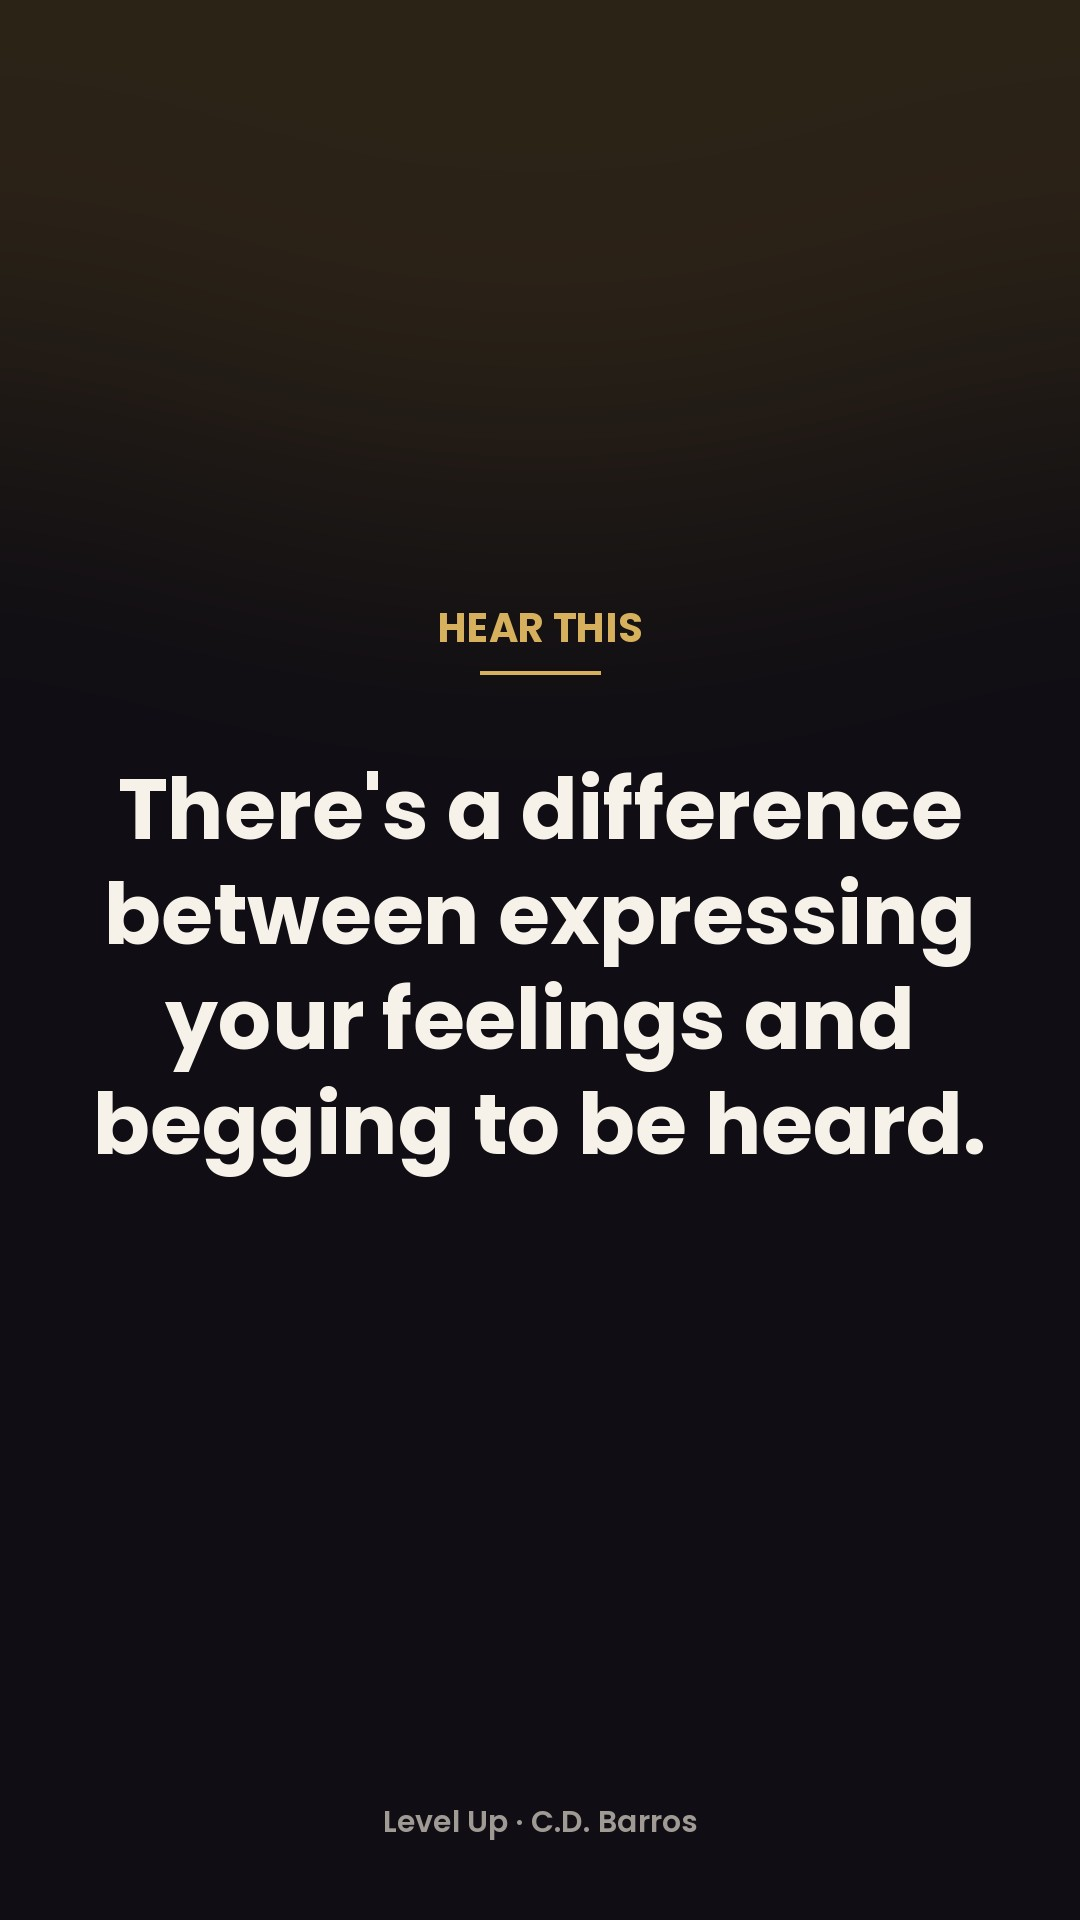
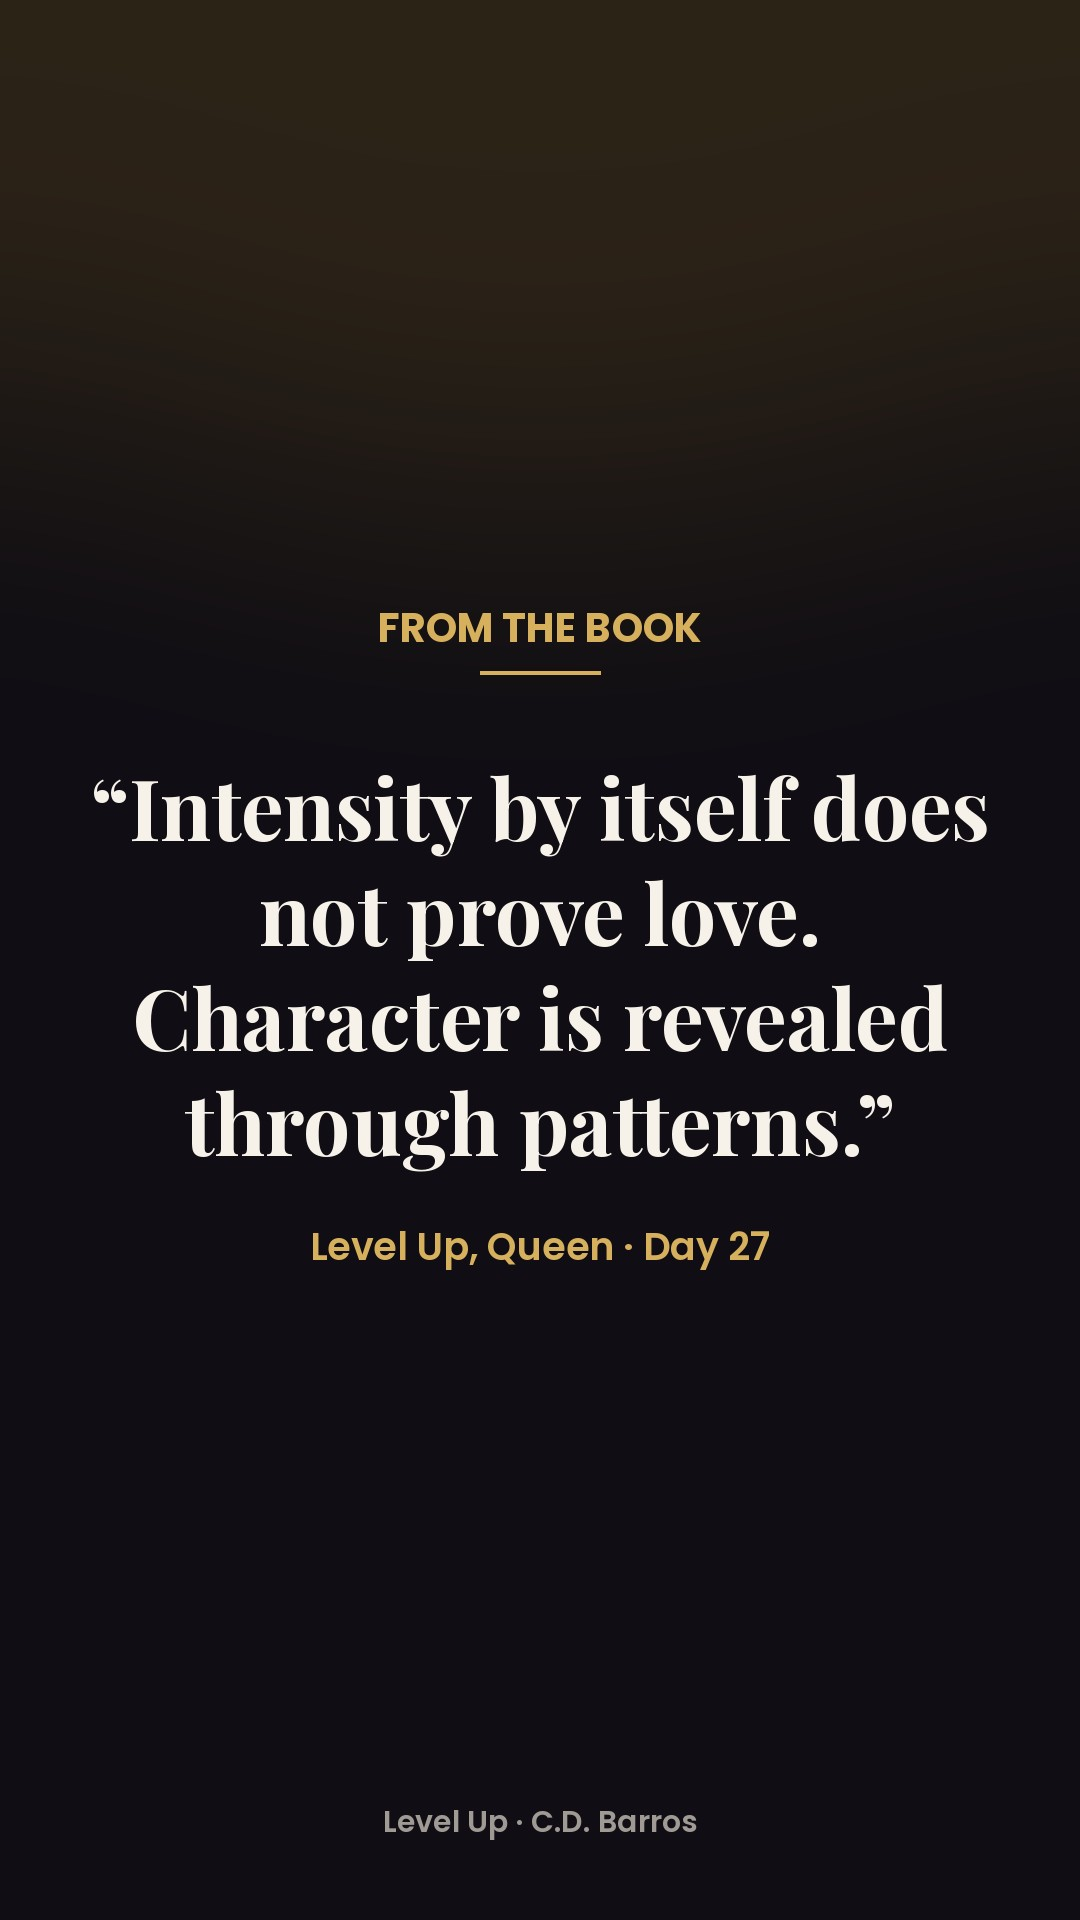
Week 1: library photos behind hooks, real Level Up Queen lines
Claude-Session: https://claude.ai/code/session_01SeeE1LvC9e3FcZKWWLSzrP

Changed region(s): [[0.0917, 0.4062, 0.9167, 0.6562], [0.3361, 0.3125, 0.6417, 0.3438]]

diff --git a/tools/slides.py b/tools/slides.py
@@ -97,13 +97,48 @@ def label(d, text, y, color=GOLD):
     d.line([(W / 2 - 60, y + 72), (W / 2 + 60, y + 72)], fill=color, width=4)
 
 
+def photo_base(path):
+    """Full-bleed photo, cover-cropped to 9:16, darkened toward the bottom for text."""
+    im = Image.open(os.path.join(ROOT, path)).convert("RGB")
+    r = max(W / im.width, H / im.height)
+    im = im.resize((int(im.width * r) + 1, int(im.height * r) + 1))
+    x = (im.width - W) // 2
+    im = im.crop((x, 0, x + W, H))
+    shade = Image.new("L", (W, H))
+    sd = ImageDraw.Draw(shade)
+    for y in range(H):  # 35% at top -> 88% at bottom
+        sd.line([(0, y), (W, y)], fill=int(255 * (0.35 + 0.53 * (y / H))))
+    im = Image.composite(Image.new("RGB", (W, H), (10, 8, 12)), im, shade)
+    d = ImageDraw.Draw(im)
+    f = font(FS, 30)
+    w = d.textlength(HANDLE, font=f)
+    d.text(((W - w) / 2, H - 120), HANDLE, font=f, fill=GREY)
+    return im, d
+
+
 def slide_hook(s):
-    img, d = base()
-    f, lines, h = fit_text(d, s["text"], FB, W - 160, 1000, start=84)
-    y = (H - h) / 2
+    if s.get("photo"):
+        img, d = photo_base(s["photo"])
+        f, lines, h = fit_text(d, s["text"], FB, W - 140, 760, start=80)
+        y = H - 300 - h  # text sits in lower half over the dark part
+    else:
+        img, d = base()
+        f, lines, h = fit_text(d, s["text"], FB, W - 160, 1000, start=84)
+        y = (H - h) / 2
     if s.get("label"):
         label(d, s["label"], y - 150)
     center_block(d, lines, f, y, WHITE)
+    return img
+
+
+def slide_quote(s):
+    """A real line from the book, with its source."""
+    img, d = base()
+    f, lines, h = fit_text(d, "“" + s["text"] + "”", FP, W - 170, 1000, start=84)
+    y = (H - h) / 2
+    label(d, s.get("label", "From the book"), y - 150)
+    y = center_block(d, lines, f, y, WHITE)
+    center_block(d, [s["source"]], font(FS, 38), y + 50, GOLD)
     return img
 
 
@@ -180,7 +215,7 @@ def slide_cta(s):
     return img
 
 
-RENDER = {"hook": slide_hook, "side": slide_side, "question": slide_question,
+RENDER = {"hook": slide_hook, "quote": slide_quote, "side": slide_side, "question": slide_question,
           "thread": slide_thread, "cta": slide_cta}
 
 
